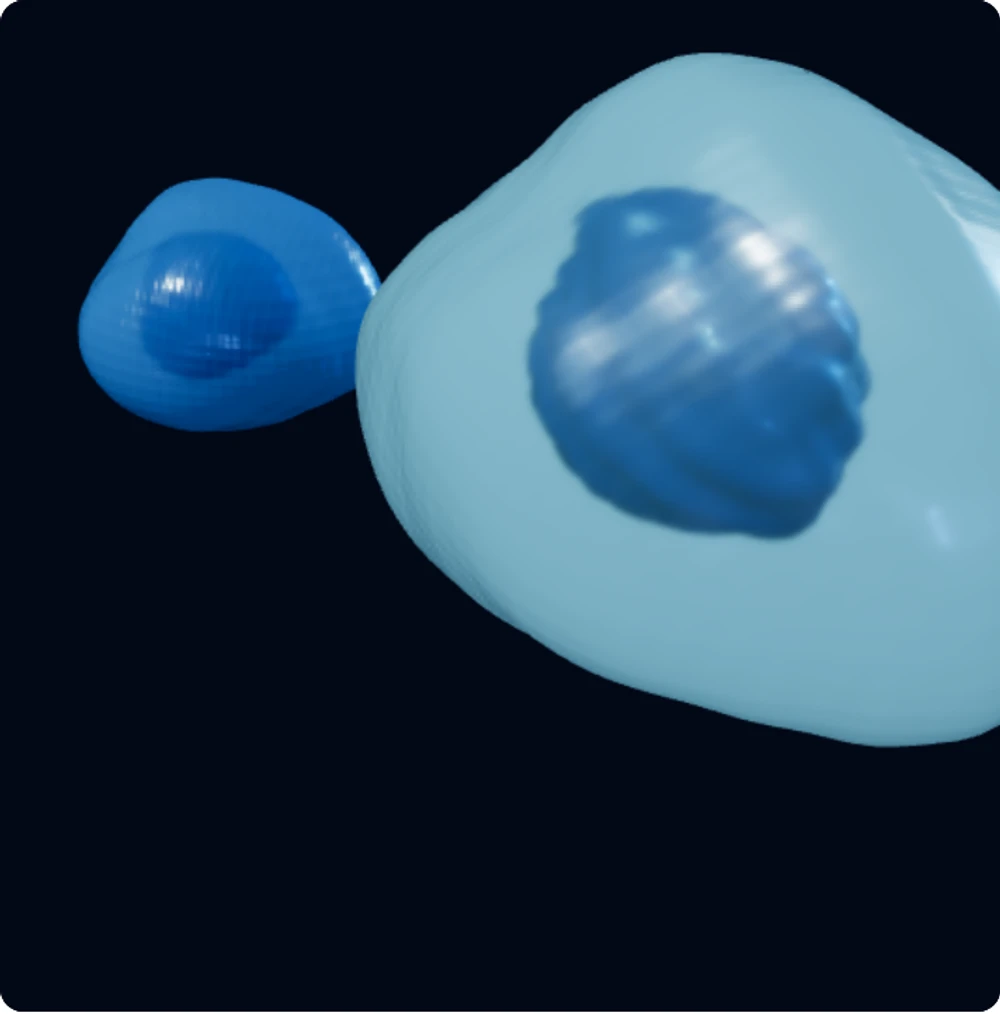
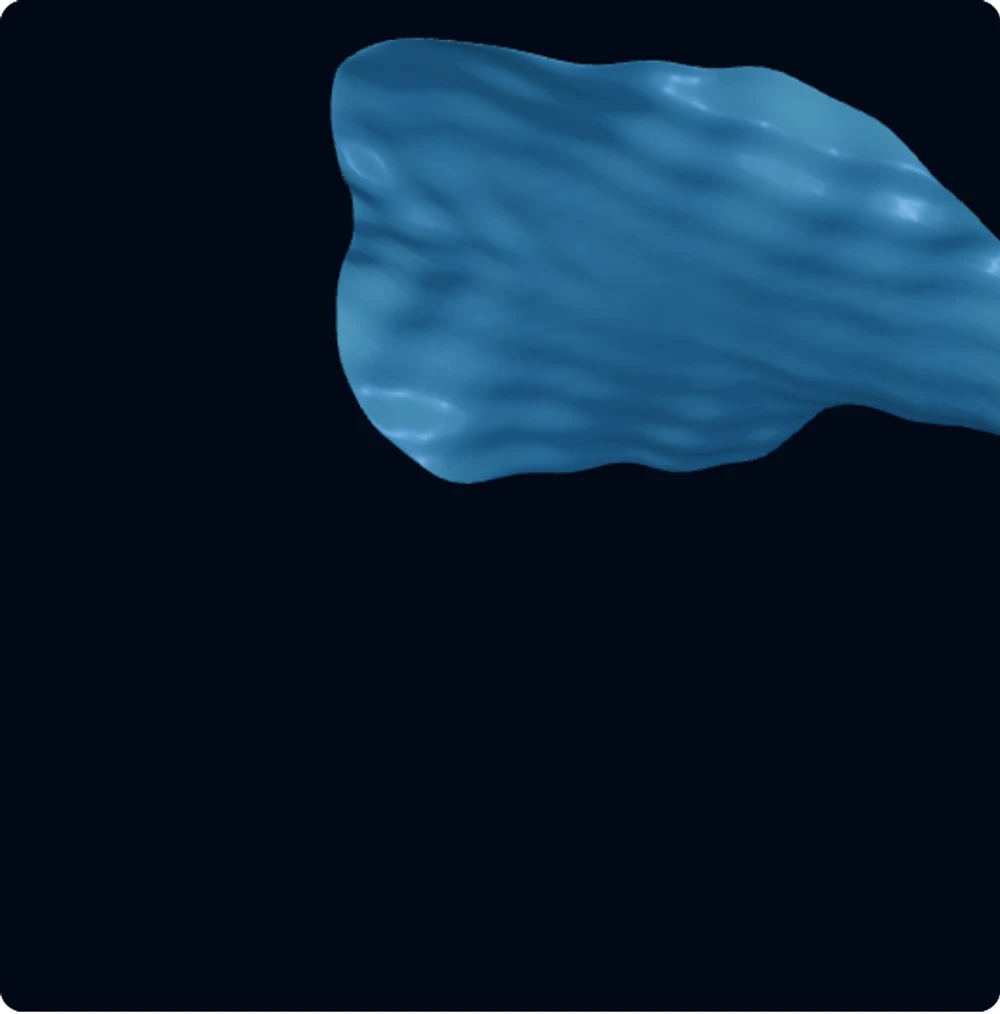
Refine Cytellect as a thin optical membrane

diff --git a/src/app/(official)/founder/cell-field-engine.ts b/src/app/(official)/founder/cell-field-engine.ts
@@ -3,49 +3,54 @@ import * as THREE from "three";
 export type CellSceneController = { dispose(): void; syncMotion(): void };
 
 // Original deterministic artwork; not measured or reconstructed biological data.
-function membraneGeometry(detail: number, inner = false) {
+function membraneGeometry(detail: number) {
   const geometry = new THREE.SphereGeometry(1, detail, Math.round(detail * .7));
   const positions = geometry.attributes.position, p = new THREE.Vector3();
   for (let i = 0; i < positions.count; i++) {
     p.fromBufferAttribute(positions, i);
-    const shoulder = .085 * Math.sin(p.x * 3.6 + p.y * 2.1) * Math.cos(p.z * 3.2 - .5);
-    const hollow = .13 * Math.exp(-((p.x + .45) ** 2 + (p.y - .55) ** 2 + (p.z - .55) ** 2) * 7);
-    const folds = inner ? .045 * Math.sin(p.x * 14 + p.z * 8) * Math.sin(p.y * 10 - p.z * 4)
-      : .007 * Math.sin(p.x * 15 + p.y * 5) * Math.cos(p.z * 12 - p.y * 8);
-    const radius = 1 + shoulder - hollow + folds;
-    positions.setXYZ(i, p.x * radius * 1.08, p.y * radius * .86, p.z * radius * .73);
+    const angle = Math.atan2(p.y, p.x), radial = Math.hypot(p.x, p.y);
+    // A spread cell's shallow optical surface: broad asymmetry, not a swollen orb.
+    const outline = 1 + .105 * Math.sin(angle * 3 + .4) + .055 * Math.cos(angle * 5 - .8)
+      + .035 * Math.sin(angle * 2 - .6);
+    const edge = radial ** 4;
+    const drape = .16 * Math.sin(angle * 3 + .6) * edge
+      + .06 * Math.cos(angle * 6 - .9) * edge;
+    const saddle = .15 * p.x * p.y + .065 * Math.sin(p.x * 4 + p.y * 2) * radial;
+    const opticalFolds = .018 * Math.sin(p.x * 19 + p.y * 8 + Math.sin(p.y * 5) * 2)
+      + .009 * Math.sin(p.y * 31 - p.x * 7 + Math.sin(p.x * 4));
+    const thickness = .034 * p.z * (1 + .12 * Math.cos(p.x * 5 - p.y * 3));
+    positions.setXYZ(i, p.x * outline * 1.24, p.y * outline * .89, thickness + drape + saddle + opticalFolds * radial);
   }
   geometry.computeVertexNormals();
   return geometry;
 }
 
-function membraneMaterial(time: THREE.IUniform<number>, secondary = false) {
+function membraneMaterial(time: THREE.IUniform<number>) {
   const material = new THREE.MeshPhysicalMaterial({
-    color: secondary ? 0x427eb6 : 0x9ad8e9, metalness: 0, roughness: .22,
-    transmission: secondary ? .5 : .88, thickness: .24,
-    attenuationColor: new THREE.Color(0x6eafd6), attenuationDistance: 3.5, ior: 1.34,
-    clearcoat: .25, clearcoatRoughness: .3, side: THREE.FrontSide, envMapIntensity: .65,
+    color: 0x639ebd, metalness: .08, roughness: .22,
+    transmission: .48, thickness: .08,
+    attenuationColor: new THREE.Color(0x4e96d0), attenuationDistance: 2.5, ior: 1.34,
+    clearcoat: .12, clearcoatRoughness: .32, side: THREE.FrontSide, envMapIntensity: .85,
+    iridescence: .32, iridescenceIOR: 1.3, iridescenceThicknessRange: [140, 280],
   });
   material.onBeforeCompile = shader => {
     shader.uniforms.cellTime = time;
     shader.vertexShader = "uniform float cellTime; varying vec3 cellSurface;\n" + shader.vertexShader;
     shader.vertexShader = shader.vertexShader.replace("#include <begin_vertex>", `
       #include <begin_vertex>
-      float drift = sin(position.x * 3.2 + position.y * 2.1 + cellTime * .55)
-        * cos(position.z * 3.8 - cellTime * .38);
-      transformed += objectNormal * drift * .012;
+      float drift = sin(position.x * 3.2 + position.y * 2.1 + cellTime * .25);
+      transformed.z += drift * .003;
       cellSurface = position;
     `);
     shader.fragmentShader = "varying vec3 cellSurface;\n" + shader.fragmentShader;
     shader.fragmentShader = shader.fragmentShader.replace("#include <normal_fragment_maps>", `
       #include <normal_fragment_maps>
-      float relief = sin(dot(cellSurface, vec3(32.0, 19.0, 27.0)))
-        * cos(dot(cellSurface, vec3(-23.0, 31.0, 17.0)))
-        + .45 * sin(dot(cellSurface, vec3(71.0, -43.0, 53.0)));
-      normal = normalize(normal + vec3(dFdx(relief), dFdy(relief), 0.0) * .12);
+      float relief = sin(cellSurface.x * 46.0 + sin(cellSurface.y * 9.0) * 3.0)
+        * cos(cellSurface.y * 39.0 + sin(cellSurface.x * 7.0) * 2.0);
+      normal = normalize(normal + vec3(dFdx(relief), dFdy(relief), 0.0) * .055);
     `);
   };
-  material.customProgramCacheKey = () => "cytellect-membrane-field-v1";
+  material.customProgramCacheKey = () => "cytellect-spread-membrane-v2";
   return material;
 }
 
@@ -85,26 +90,19 @@ export async function mountCellScene(host: HTMLDivElement, isPaused: () => boole
     const fill = new THREE.DirectionalLight(0x4174ba, .7); fill.position.set(1, -3, 4);
     scene.add(key, rim, fill);
     const time = { value: 0 }, coarse = matchMedia("(max-width: 900px), (pointer: coarse)");
-    const outerGeometry = membraneGeometry(coarse.matches ? 80 : 112), innerGeometry = membraneGeometry(64, true);
-    geometries.add(outerGeometry); geometries.add(innerGeometry);
-    const membrane = membraneMaterial(time), distantMembrane = membraneMaterial(time, true);
-    const interior = new THREE.MeshPhysicalMaterial({ color: 0x1a467d, roughness: .38, metalness: 0, clearcoat: .18, envMapIntensity: .6 });
-    materials.add(membrane); materials.add(distantMembrane); materials.add(interior);
-    const createCell = (shellMaterial: THREE.MeshPhysicalMaterial) => {
-      const group = new THREE.Group(), inside = new THREE.Mesh(innerGeometry, interior);
-      inside.scale.set(.47, .52, .49); inside.position.set(-.13, .06, -.06); inside.rotation.set(.28, -.3, .25);
-      group.add(inside, new THREE.Mesh(outerGeometry, shellMaterial)); return group;
-    };
-    const hero = createCell(membrane), distant = createCell(distantMembrane);
-    scene.add(hero, distant); host.appendChild(renderer.domElement);
+    const outerGeometry = membraneGeometry(coarse.matches ? 96 : 128);
+    geometries.add(outerGeometry);
+    const membrane = membraneMaterial(time); materials.add(membrane);
+    const hero = new THREE.Mesh(outerGeometry, membrane);
+    scene.add(hero); host.appendChild(renderer.domElement);
     let visible = false, disposed = false, contextUnavailable = false;
     let frame = 0, lastTime = 0, lastRender = 0, elapsed = 0, renders = 0, heroX = 0, heroY = 0;
     const render = () => {
       if (disposed || contextUnavailable) return;
-      const phase = elapsed * Math.PI * 2 / 14; time.value = elapsed;
-      hero.rotation.set(.2 + Math.sin(phase + .6) * .14, -.28 + Math.sin(phase - .75) * .6, -.24 + Math.cos(phase) * .07);
-      hero.position.set(heroX + Math.sin(phase) * .07, heroY + Math.sin(phase + .5) * .1, 0);
-      distant.rotation.set(-.2, .5 - phase * .35, .28); distant.position.y = heroY + .8 + Math.cos(phase + .8) * .12;
+      const phase = elapsed * Math.PI * 2 / 16; time.value = elapsed;
+      // Reveal thickness by changing incidence, never by inflating the silhouette.
+      hero.rotation.set(.82 + Math.sin(phase) * .19, -.32 + Math.sin(phase + .6) * .28, -.38 + Math.sin(phase - .4) * .1);
+      hero.position.set(heroX + Math.sin(phase) * .055, heroY + Math.sin(phase + .5) * .05, 0);
       renderer.render(scene, camera); host.dataset.renderCount = String(++renders);
     };
     const animate = (timestamp: number) => {
@@ -122,10 +120,9 @@ export async function mountCellScene(host: HTMLDivElement, isPaused: () => boole
       const { width, height } = host.getBoundingClientRect(); if (!width || !height) return;
       renderer.setSize(width, height, false); camera.aspect = width / height; camera.updateProjectionMatrix();
       const viewHeight = 2 * camera.position.z * Math.tan(THREE.MathUtils.degToRad(camera.fov / 2)), narrow = camera.aspect < 1.35;
-      hero.scale.setScalar(viewHeight * (narrow ? .36 : .4));
-      heroX = viewHeight * camera.aspect * .22; heroY = viewHeight * .08;
-      distant.scale.setScalar(viewHeight * (narrow ? .18 : .2));
-      distant.position.set(heroX - viewHeight * .55, heroY + .8, -2.2); render();
+      hero.scale.setScalar(viewHeight * (narrow ? .30 : .45));
+      heroX = viewHeight * camera.aspect * (narrow ? .16 : .23);
+      heroY = viewHeight * (narrow ? .2 : .18); render();
     };
     const resizeObserver = new ResizeObserver(resize);
     const visibility = new IntersectionObserver(([entry]) => { visible = entry.isIntersecting; syncMotion(); });

diff --git a/public/images/founder-products/cytellect/NOTICE.md b/public/images/founder-products/cytellect/NOTICE.md
@@ -23,8 +23,9 @@ No research datasets or runtime dependency on the cytellect deployment are inclu
 
 The Founder card now uses original procedural artwork authored for this site in
 `src/app/(official)/founder/cell-field-engine.ts`, rather than the imported GLB.
-The closed asymmetric membrane and internal volume are generated deterministically
-in Three.js. Its desktop and mobile WebP posters are captures of that same renderer.
+The shallow asymmetric spread-cell membrane is generated deterministically in
+Three.js, with gentle edge folds and optical surface relief, without internal
+organelle models. Its desktop and mobile WebP posters capture that same renderer.
 No microscopy specimens, experimental data, external textures or AI-generated
 images are used. The original imported assets and provenance above are retained.
 Copyright (c) 2026 Yuto Matsui.
